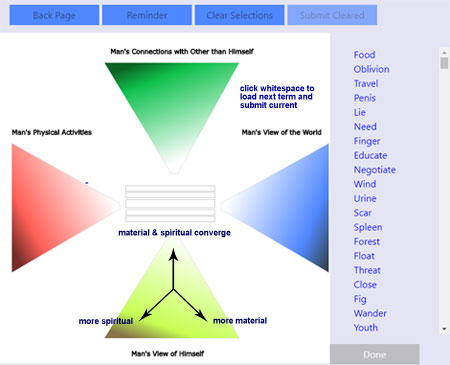
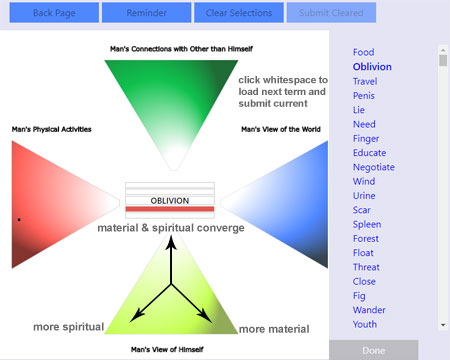
gradient change

diff --git a/public/js/s1-min.js b/public/js/s1-min.js
@@ -1,1 +1,1 @@
-Ybigh={counter:0,timeoutHandle:"",paths:[],current:"",saveSelection:[],counter_hash:[],click_counter:0,blue:null,green:null,red:null,yellow:null,data:null,confirmIndex:0,to_hex:function(o){return hex=o.toString(16),2==hex.length?hex:"0"+hex},clear:function(){Ybigh.$colors.fadeOut(Ybigh.$colors.remove),Ybigh.timeoutHandle=window.setTimeout(function(){"make-bold active"===$("#"+Ybigh.current).attr("class")&&$("#removeSelections").prop("disabled",!1),Ybigh.show(),$(".cl.world").css({"background-color":"white"}),$(".cl.others").css({"background-color":"white"}),$(".cl.activities").css({"background-color":"white"}),$(".cl.himself").css({"background-color":"white"}),Ybigh.blue=null,Ybigh.green=null,Ybigh.red=null,Ybigh.yellow=null},500)},submitCleared:function(){var o={name:Ybigh.current,wordID:123};$.ajax({type:"POST",url:"/symbol",data:JSON.stringify(o),error:function(o,e,t){},success:function(o){console.log(o),$("#"+Ybigh.current).removeClass("make-bold"),$("#removeSelections").prop("disabled",!0),Ybigh.counter>3&&$("#done").prop("disabled",!1).removeClass("dis")}})},startCounter:function(){Ybigh.timeoutHandle=window.setTimeout(function(){Ybigh.show()},500)},show:function(){var o=$("#phone").html();$(".word");let e;Ybigh.$colors=$('<canvas title="Once selections are made, click whitespace to submit current and load the next word" id="can" height="552" width="552"></canvas>'),$("#container").append(Ybigh.$colors.fadeIn()),Ybigh.colorctx=Ybigh.$colors[0].getContext("2d");var t=getAbsoluteBoundingRect(Ybigh.$colors[0]),c=t.left,l=t.top;Ybigh.render(!0),Ybigh.$colors.on("touchstart mouseup",function(t){if(t.preventDefault(),!Ybigh.current)return void alert("Click a term on the right then make selection(s)");let i="true"===o?t.changedTouches[0]:t,r=i.clientX,h=i.clientY,a=parseInt(r-c),n=parseInt(h-l);var g=0;for(g=0;g<Ybigh.paths.length&&!(e=Ybigh.colorctx.isPointInPath(Ybigh.paths[g],a,n));g++);if(e){let o=Ybigh.get_color(i);if("world"==Ybigh.paths[g].objID){let e=Ybigh.colorctx.createLinearGradient(585,310,90,95);e.addColorStop(0,"#36454F"),e.addColorStop(.1,"#4f87ff"),e.addColorStop(.37,"white"),Ybigh.colorctx.beginPath(),Ybigh.colorctx.moveTo(550,185),Ybigh.colorctx.lineTo(370,285),Ybigh.colorctx.lineTo(370,295),Ybigh.colorctx.lineTo(550,400),Ybigh.colorctx.closePath(),Ybigh.colorctx.fillStyle=e,Ybigh.colorctx.strokeStyle="#D0D0D0",Ybigh.colorctx.stroke(),Ybigh.colorctx.fill(),Ybigh.click_counter+=1,o.name=Ybigh.current,o.category=8,Ybigh.blue=o,Ybigh.colorctx.setTransform(1,0,0,1,0,0),Ybigh.colorctx.fillStyle="#000000",Ybigh.colorctx.fillRect(o.x-2,o.y-2,4,4),Ybigh.counter_hash.push({count:Ybigh.click_counter,category:o.category})}else if("others"==Ybigh.paths[g].objID){let e=Ybigh.colorctx.createLinearGradient(-55,115,27,323);e.addColorStop(.2,"#0B6623"),e.addColorStop(.37,"#0fc14e"),e.addColorStop(1,"white"),Ybigh.colorctx.beginPath(),Ybigh.colorctx.moveTo(175,50),Ybigh.colorctx.lineTo(287,235),Ybigh.colorctx.lineTo(297,235),Ybigh.colorctx.lineTo(400,50),Ybigh.colorctx.closePath(),Ybigh.colorctx.fillStyle=e,Ybigh.colorctx.strokeStyle="#D0D0D0",Ybigh.colorctx.stroke(),Ybigh.colorctx.fill(),Ybigh.click_counter+=1,o.name=Ybigh.current,o.category=2,Ybigh.green=o,Ybigh.colorctx.beginPath(),Ybigh.colorctx.setTransform(1,0,0,1,0,0),Ybigh.colorctx.fillStyle="#000000",Ybigh.colorctx.fillRect(o.x-2,o.y-2,4,4),Ybigh.counter_hash.push({count:Ybigh.click_counter,category:o.category})}else if("activities"==Ybigh.paths[g].objID){let e=Ybigh.colorctx.createLinearGradient(-15,295,380,85);e.addColorStop(0,"#662825"),e.addColorStop(.1,"#ff5f57"),e.addColorStop(.42,"white"),Ybigh.colorctx.beginPath(),Ybigh.colorctx.moveTo(20,185),Ybigh.colorctx.lineTo(200,285),Ybigh.colorctx.lineTo(200,295),Ybigh.colorctx.lineTo(20,400),Ybigh.colorctx.closePath(),Ybigh.colorctx.fillStyle=e,Ybigh.colorctx.strokeStyle="#D0D0D0",Ybigh.colorctx.stroke(),Ybigh.colorctx.fill(),Ybigh.click_counter+=1,o.name=Ybigh.current,o.category=4,Ybigh.red=o,Ybigh.colorctx.setTransform(1,0,0,1,0,0),Ybigh.colorctx.fillStyle="#000000",Ybigh.colorctx.fillRect(o.x-2,o.y-2,4,4),Ybigh.counter_hash.push({count:Ybigh.click_counter,category:o.category})}else{let e=Ybigh.colorctx.createLinearGradient(-35,485,50,250);e.addColorStop(.25,"#666600"),e.addColorStop(.4,"#c5ff52"),e.addColorStop(1,"white"),Ybigh.colorctx.beginPath(),Ybigh.colorctx.moveTo(175,510),Ybigh.colorctx.lineTo(285,335),Ybigh.colorctx.lineTo(295,335),Ybigh.colorctx.lineTo(400,510),Ybigh.colorctx.closePath(),Ybigh.colorctx.fillStyle=e,Ybigh.colorctx.strokeStyle="#D0D0D0",Ybigh.colorctx.stroke(),Ybigh.colorctx.fill(),Ybigh.click_counter+=1,o.name=Ybigh.current,o.category=1,Ybigh.yellow=o,Ybigh.colorctx.setTransform(1,0,0,1,0,0),Ybigh.colorctx.fillStyle="#000000",Ybigh.colorctx.fillRect(o.x-2,o.y-2,4,4),Ybigh.counter_hash.push({count:Ybigh.click_counter,category:o.category})}$(".cl."+Ybigh.paths[g].objID).css({"background-color":o.c})}else if(Ybigh.blue||Ybigh.red||Ybigh.green||Ybigh.yellow){$("#word_list li").removeClass("active");var s=parseInt($("#"+Ybigh.current).attr("data")),b=$("#word_list").find("[data='"+s+"']")[0],Y=s+1,u=$("#word_list").find("[data='"+Y+"']")[0];if(Ybigh.checkIfDone(u))$(u).addClass("active"),Ybigh.next(u,b),s>18&&$("#word_list").scrollTo("+=35",800);else{var d=Y+1,x=$("#word_list").find("[data='"+d+"']")[0];$(x).addClass("active"),Ybigh.next(x,b),d>18&&$("#word_list").scrollTo("+=35",800)}}}),Ybigh.$colors.on("mousemove",function(o){o.preventDefault();let e=parseInt(o.clientX-c),t=parseInt(o.clientY-l);for(var i=0;i<Ybigh.paths.length;i++){Ybigh.colorctx.isPointInPath(Ybigh.paths[i],e,t)&&Ybigh.$colors.css("cursor","crosshair")}})},checkIfDone:function(o){return"make-bold"!==$(o).attr("class")},bind_inputs:function(o){$("#overlay").css("display","block"),$.get("/Stage1/data",function(o){var e;Ybigh.data=o.data,Ybigh.show(),$("#clear").click(Ybigh.clear),$("#done").click(Ybigh.done),$("#removeSelections").click(Ybigh.submitCleared);var t=$("#word_list");$.each(Ybigh.data,function(o,c){var l=$('<li data="'+o+'" id="'+this+'">'+this+"</li>").on("touchstart mouseup",function(){if($("#removeSelections").prop("disabled",!0),$("#word_list li").removeClass("active"),"make-bold"===$(this).attr("class"))return Ybigh.blue||Ybigh.green||Ybigh.red||Ybigh.yellow?($(e).addClass("active"),void alert("Clear or submit active symbol before viewing another symbol")):($(this).addClass("active"),Ybigh.getPreviousState(this),void(e=this));Ybigh.current=$(this).html(),$(".word").val($(this).html().toUpperCase()),$(this).addClass("active"),(Ybigh.blue||Ybigh.green||Ybigh.red||Ybigh.yellow)&&Ybigh.current!==$(e).html()&&Ybigh.next(this,e),e=this});t.append(l)}),$("#overlay").css("display","none")})},next:function(o,e){$(".cl.world").css({"background-color":"white"}),$(".cl.others").css({"background-color":"white"}),$(".cl.activities").css({"background-color":"white"}),$(".cl.himself").css({"background-color":"white"}),Ybigh.close();let t=Ybigh.counter_hash.filter(function(o,e,t){return t.findIndex(function(e){return e.category==o.category})===e}).map(function(o){return{count:Ybigh.counter_hash.filter(function(e){return e.category==o.category}).reduce(function(o,e){return e.count<o?e.count:o}).count,category:o.category}});for(var c=0;c<t.length;c++)Ybigh.yellow&&Ybigh.yellow.category===t[c].category&&(Ybigh.yellow.clicked=t[c].count,Ybigh.saveSelection.push(Ybigh.yellow)),Ybigh.green&&Ybigh.green.category===t[c].category&&(Ybigh.green.clicked=t[c].count,Ybigh.saveSelection.push(Ybigh.green)),Ybigh.red&&Ybigh.red.category===t[c].category&&(Ybigh.red.clicked=t[c].count,Ybigh.saveSelection.push(Ybigh.red)),Ybigh.blue&&Ybigh.blue.category===t[c].category&&(Ybigh.blue.clicked=t[c].count,Ybigh.saveSelection.push(Ybigh.blue));Ybigh.saveSelection.sort(function(o,e){return o.count-e.count}),Ybigh.submit(Ybigh.saveSelection,o,e),Ybigh.saveSelection.length=0,Ybigh.blue=null,Ybigh.green=null,Ybigh.red=null,Ybigh.yellow=null},getPreviousState:function(o){for(var e=$(o).html(),t=[{c:"#81dea2",x:329,y:92,percentx:59.49367088607595,percenty:16.636528028933093,name:e,category:2,clicked:1},{c:"#cadbff",x:451,y:278,percentx:81.55515370705244,percenty:50.27124773960217,name:e,category:8,clicked:2},{c:"#ffe3e2",x:156,y:283,percentx:28.20976491862568,percenty:51.17540687160941,name:e,category:4,clicked:3},{c:"#e0ffa2",x:266,y:489,percentx:48.10126582278481,percenty:88.42676311030742,name:e,category:1,clicked:4}],c=0;c<t.length;c++)switch(Ybigh.colorctx.setTransform(1,0,0,1,0,0),Ybigh.colorctx.fillStyle="#000000",Ybigh.colorctx.fillRect(t[c].x-2,t[c].y-2,4,4),t[c].category){case 1:$(".cl.himself").css({"background-color":t[c].c}),Ybigh.yellow=t[c],Ybigh.counter_hash.push({count:t[c].click,category:t[c].category});break;case 2:$(".cl.others").css({"background-color":t[c].c}),Ybigh.green=t[c],Ybigh.counter_hash.push({count:t[c].click,category:t[c].category});break;case 4:$(".cl.activities").css({"background-color":t[c].c}),Ybigh.red=t[c],Ybigh.counter_hash.push({count:t[c].click,category:t[c].category});break;case 8:$(".cl.world").css({"background-color":t[c].c}),Ybigh.blue=t[c],Ybigh.counter_hash.push({count:t[c].click,category:t[c].category})}Ybigh.current=e,$(".word").val(e.toUpperCase())},done:function(o){(Ybigh.yellow||Ybigh.blue||Ybigh.red||Ybigh.green)&&Ybigh.next(),window.location.href="/Stage2"},submit:function(o,e,t){$("#overlay").css("display","block"),$.ajax({type:"POST",url:"/symbol",data:JSON.stringify(o),error:function(o,e,t){$("#overlay").css("display","none")},success:function(c){o.length=0,Ybigh.counter+=1,e&&t?(Ybigh.current=$(e).html(),$(".word").val($(e).html().toUpperCase()),$(t).addClass("make-bold")):$(t).addClass("make-bold"),Ybigh.counter>3&&$("#done").prop("disabled",!1).removeClass("dis"),$("#overlay").css("display","none")}})},close:function(){Ybigh.$colors.fadeOut(Ybigh.$colors.remove),Ybigh.startCounter()},get_color:function(o){var e=o.pageX-Ybigh.$colors.offset().left,t=o.pageY-Ybigh.$colors.offset().top,c=Ybigh.colorctx.getImageData(e,t,1,1).data,l=e/$("#can").width()*100,i=t/$("#can").height()*100;return{c:"#"+Ybigh.to_hex(c[0])+Ybigh.to_hex(c[1])+Ybigh.to_hex(c[2]),x:e,y:t,percentx:l,percenty:i}},render:function(o){var e,t=[{nameID:"others",col1:"white",col2:"#0fc14e",col0:"#0B6623",x:175,y:50,xlt:287,ylt:235,xlt1:297,ylt1:235,xlt2:400,ylt2:50,sy:115,fy:323,sx:-55,fx:27,stop1:.2,stop2:.37,stop3:1,labelX:185,labelY:35,label:"Man's Connections with Other than Himself"},{nameID:"activities",col1:"white",col2:"#ff5f57",col0:"#772d29",x:20,y:185,xlt:200,ylt:285,xlt1:200,ylt1:295,xlt2:20,ylt2:400,sy:295,fy:85,sx:-15,fx:380,stop1:0,stop2:.1,stop3:.42,labelX:20,labelY:170,label:"Man's Physical Activities"},{nameID:"world",col1:"white",col2:"#4f87ff",col0:"#36454F",x:550,y:185,xlt:370,ylt:285,xlt1:370,ylt1:295,xlt2:550,ylt2:400,sy:310,fy:95,sx:585,fx:90,stop1:0,stop2:.1,stop3:.37,labelX:405,labelY:170,label:"Man's View of the World"},{nameID:"himself",col1:"white",col2:"#c5ff52",col0:"#666600",x:175,y:510,xlt:285,ylt:335,xlt1:295,ylt1:335,xlt2:400,ylt2:510,sy:485,fy:250,sx:-35,fx:50,stop1:.25,stop2:.4,stop3:1,labelX:220,labelY:540,label:"Man's View of Himself"}];Path2D.prototype.getID=function(o){this.objID=o};for(var c=0;c<t.length;c++){(e=("others"==t[c].nameID||t[c].nameID,Ybigh.colorctx.createLinearGradient(t[c].sx,t[c].sy,t[c].fx,t[c].fy))).addColorStop(t[c].stop1,t[c].col0),e.addColorStop(t[c].stop2,t[c].col2),e.addColorStop(t[c].stop3,t[c].col1);var l=new Path2D;l.moveTo(t[c].x,t[c].y),l.lineTo(t[c].xlt,t[c].ylt),l.lineTo(t[c].xlt1,t[c].ylt1),l.lineTo(t[c].xlt2,t[c].ylt2),l.closePath(),l.getID(t[c].nameID),Ybigh.colorctx.fillStyle=e,Ybigh.colorctx.strokeStyle="#D0D0D0",Ybigh.colorctx.stroke(l),Ybigh.colorctx.fill(l),o&&(Ybigh.paths.push(l),Ybigh.colorctx.strokeStyle="black",Ybigh.colorctx.font="11px verdana",Ybigh.colorctx.strokeText(t[c].label,t[c].labelX,t[c].labelY))}}},Ybigh.bind_inputs();
+Ybigh={counter:0,timeoutHandle:"",paths:[],current:"",saveSelection:[],counter_hash:[],click_counter:0,blue:null,green:null,red:null,yellow:null,data:null,confirmIndex:0,to_hex:function(o){return hex=o.toString(16),2==hex.length?hex:"0"+hex},clear:function(){Ybigh.$colors.fadeOut(Ybigh.$colors.remove),Ybigh.timeoutHandle=window.setTimeout(function(){"make-bold active"===$("#"+Ybigh.current).attr("class")&&$("#removeSelections").prop("disabled",!1),Ybigh.show(),$(".cl.world").css({"background-color":"white"}),$(".cl.others").css({"background-color":"white"}),$(".cl.activities").css({"background-color":"white"}),$(".cl.himself").css({"background-color":"white"}),Ybigh.blue=null,Ybigh.green=null,Ybigh.red=null,Ybigh.yellow=null},500)},submitCleared:function(){var o={name:Ybigh.current,wordID:123};$.ajax({type:"POST",url:"/symbol",data:JSON.stringify(o),error:function(o,e,t){},success:function(o){console.log(o),$("#"+Ybigh.current).removeClass("make-bold"),$("#removeSelections").prop("disabled",!0),Ybigh.counter>3&&$("#done").prop("disabled",!1).removeClass("dis")}})},startCounter:function(){Ybigh.timeoutHandle=window.setTimeout(function(){Ybigh.show()},500)},show:function(){var o=$("#phone").html();$(".word");let e;Ybigh.$colors=$('<canvas title="Once selections are made, click whitespace to submit current and load the next word" id="can" height="552" width="552"></canvas>'),$("#container").append(Ybigh.$colors.fadeIn()),Ybigh.colorctx=Ybigh.$colors[0].getContext("2d");var t=getAbsoluteBoundingRect(Ybigh.$colors[0]),c=t.left,l=t.top;Ybigh.render(!0),Ybigh.$colors.on("touchstart mouseup",function(t){if(t.preventDefault(),!Ybigh.current)return void alert("Click a term on the right then make selection(s)");let i="true"===o?t.changedTouches[0]:t,r=i.clientX,h=i.clientY,a=parseInt(r-c),n=parseInt(h-l);var g=0;for(g=0;g<Ybigh.paths.length&&!(e=Ybigh.colorctx.isPointInPath(Ybigh.paths[g],a,n));g++);if(e){let o=Ybigh.get_color(i);if("world"==Ybigh.paths[g].objID){let e=Ybigh.colorctx.createRadialGradient(585,265,150,90,190,20);e.addColorStop(.15,"#36454F"),e.addColorStop(.29,"#4f87ff"),e.addColorStop(.51,"white"),Ybigh.colorctx.beginPath(),Ybigh.colorctx.moveTo(550,185),Ybigh.colorctx.lineTo(370,285),Ybigh.colorctx.lineTo(370,295),Ybigh.colorctx.lineTo(550,400),Ybigh.colorctx.closePath(),Ybigh.colorctx.fillStyle=e,Ybigh.colorctx.strokeStyle="#D0D0D0",Ybigh.colorctx.stroke(),Ybigh.colorctx.fill(),Ybigh.click_counter+=1,o.name=Ybigh.current,o.category=8,Ybigh.blue=o,Ybigh.colorctx.setTransform(1,0,0,1,0,0),Ybigh.colorctx.fillStyle="#000000",Ybigh.colorctx.fillRect(o.x-2,o.y-2,4,4),Ybigh.counter_hash.push({count:Ybigh.click_counter,category:o.category})}else if("others"==Ybigh.paths[g].objID){let e=Ybigh.colorctx.createRadialGradient(220,120,150,300,220,20);e.addColorStop(0,"#1f6b36"),e.addColorStop(.49,"#0fc14e"),e.addColorStop(1,"white"),Ybigh.colorctx.beginPath(),Ybigh.colorctx.moveTo(175,50),Ybigh.colorctx.lineTo(287,235),Ybigh.colorctx.lineTo(297,235),Ybigh.colorctx.lineTo(400,50),Ybigh.colorctx.closePath(),Ybigh.colorctx.fillStyle=e,Ybigh.colorctx.strokeStyle="#D0D0D0",Ybigh.colorctx.stroke(),Ybigh.colorctx.fill(),Ybigh.click_counter+=1,o.name=Ybigh.current,o.category=2,Ybigh.green=o,Ybigh.colorctx.beginPath(),Ybigh.colorctx.setTransform(1,0,0,1,0,0),Ybigh.colorctx.fillStyle="#000000",Ybigh.colorctx.fillRect(o.x-2,o.y-2,4,4),Ybigh.counter_hash.push({count:Ybigh.click_counter,category:o.category})}else if("activities"==Ybigh.paths[g].objID){let e=Ybigh.colorctx.createRadialGradient(100,230,150,265,300,20);e.addColorStop(0,"#84342f"),e.addColorStop(.25,"#ff5f57"),e.addColorStop(.8,"white"),Ybigh.colorctx.beginPath(),Ybigh.colorctx.moveTo(20,185),Ybigh.colorctx.lineTo(200,285),Ybigh.colorctx.lineTo(200,295),Ybigh.colorctx.lineTo(20,400),Ybigh.colorctx.closePath(),Ybigh.colorctx.fillStyle=e,Ybigh.colorctx.strokeStyle="#D0D0D0",Ybigh.colorctx.stroke(),Ybigh.colorctx.fill(),Ybigh.click_counter+=1,o.name=Ybigh.current,o.category=4,Ybigh.red=o,Ybigh.colorctx.setTransform(1,0,0,1,0,0),Ybigh.colorctx.fillStyle="#000000",Ybigh.colorctx.fillRect(o.x-2,o.y-2,4,4),Ybigh.counter_hash.push({count:Ybigh.click_counter,category:o.category})}else{let e=Ybigh.colorctx.createRadialGradient(220,450,150,300,300,20);e.addColorStop(0,"#92ab59"),e.addColorStop(.26,"#c5ff52"),e.addColorStop(.9,"white"),Ybigh.colorctx.beginPath(),Ybigh.colorctx.moveTo(175,510),Ybigh.colorctx.lineTo(285,335),Ybigh.colorctx.lineTo(295,335),Ybigh.colorctx.lineTo(400,510),Ybigh.colorctx.closePath(),Ybigh.colorctx.fillStyle=e,Ybigh.colorctx.strokeStyle="#D0D0D0",Ybigh.colorctx.stroke(),Ybigh.colorctx.fill(),Ybigh.click_counter+=1,o.name=Ybigh.current,o.category=1,Ybigh.yellow=o,Ybigh.colorctx.setTransform(1,0,0,1,0,0),Ybigh.colorctx.fillStyle="#000000",Ybigh.colorctx.fillRect(o.x-2,o.y-2,4,4),Ybigh.counter_hash.push({count:Ybigh.click_counter,category:o.category})}$(".cl."+Ybigh.paths[g].objID).css({"background-color":o.c})}else if(Ybigh.blue||Ybigh.red||Ybigh.green||Ybigh.yellow){$("#word_list li").removeClass("active");var s=parseInt($("#"+Ybigh.current).attr("data")),b=$("#word_list").find("[data='"+s+"']")[0],Y=s+1,u=$("#word_list").find("[data='"+Y+"']")[0];if(Ybigh.checkIfDone(u))$(u).addClass("active"),Ybigh.next(u,b),s>18&&$("#word_list").scrollTo("+=35",800);else{var d=Y+1,f=$("#word_list").find("[data='"+d+"']")[0];$(f).addClass("active"),Ybigh.next(f,b),d>18&&$("#word_list").scrollTo("+=35",800)}}}),Ybigh.$colors.on("mousemove",function(o){o.preventDefault();let e=parseInt(o.clientX-c),t=parseInt(o.clientY-l);for(var i=0;i<Ybigh.paths.length;i++){Ybigh.colorctx.isPointInPath(Ybigh.paths[i],e,t)&&Ybigh.$colors.css("cursor","crosshair")}})},checkIfDone:function(o){return"make-bold"!==$(o).attr("class")},bind_inputs:function(o){$("#overlay").css("display","block"),$.get("/Stage1/data",function(o){var e;Ybigh.data=o.data,Ybigh.show(),$("#clear").click(Ybigh.clear),$("#done").click(Ybigh.done),$("#removeSelections").click(Ybigh.submitCleared);var t=$("#word_list");$.each(Ybigh.data,function(o,c){var l=$('<li data="'+o+'" id="'+this+'">'+this+"</li>").on("touchstart mouseup",function(){if($("#removeSelections").prop("disabled",!0),$("#word_list li").removeClass("active"),"make-bold"===$(this).attr("class"))return Ybigh.blue||Ybigh.green||Ybigh.red||Ybigh.yellow?($(e).addClass("active"),void alert("Clear or submit active symbol before viewing another symbol")):($(this).addClass("active"),Ybigh.getPreviousState(this),void(e=this));Ybigh.current=$(this).html(),$(".word").val($(this).html().toUpperCase()),$(this).addClass("active"),(Ybigh.blue||Ybigh.green||Ybigh.red||Ybigh.yellow)&&Ybigh.current!==$(e).html()&&Ybigh.next(this,e),e=this});t.append(l)}),$("#overlay").css("display","none")})},next:function(o,e){$(".cl.world").css({"background-color":"white"}),$(".cl.others").css({"background-color":"white"}),$(".cl.activities").css({"background-color":"white"}),$(".cl.himself").css({"background-color":"white"}),Ybigh.close();let t=Ybigh.counter_hash.filter(function(o,e,t){return t.findIndex(function(e){return e.category==o.category})===e}).map(function(o){return{count:Ybigh.counter_hash.filter(function(e){return e.category==o.category}).reduce(function(o,e){return e.count<o?e.count:o}).count,category:o.category}});for(var c=0;c<t.length;c++)Ybigh.yellow&&Ybigh.yellow.category===t[c].category&&(Ybigh.yellow.clicked=t[c].count,Ybigh.saveSelection.push(Ybigh.yellow)),Ybigh.green&&Ybigh.green.category===t[c].category&&(Ybigh.green.clicked=t[c].count,Ybigh.saveSelection.push(Ybigh.green)),Ybigh.red&&Ybigh.red.category===t[c].category&&(Ybigh.red.clicked=t[c].count,Ybigh.saveSelection.push(Ybigh.red)),Ybigh.blue&&Ybigh.blue.category===t[c].category&&(Ybigh.blue.clicked=t[c].count,Ybigh.saveSelection.push(Ybigh.blue));Ybigh.saveSelection.sort(function(o,e){return o.count-e.count}),Ybigh.submit(Ybigh.saveSelection,o,e),Ybigh.saveSelection.length=0,Ybigh.blue=null,Ybigh.green=null,Ybigh.red=null,Ybigh.yellow=null},getPreviousState:function(o){for(var e=$(o).html(),t=[{c:"#81dea2",x:329,y:92,percentx:59.49367088607595,percenty:16.636528028933093,name:e,category:2,clicked:1},{c:"#cadbff",x:451,y:278,percentx:81.55515370705244,percenty:50.27124773960217,name:e,category:8,clicked:2},{c:"#ffe3e2",x:156,y:283,percentx:28.20976491862568,percenty:51.17540687160941,name:e,category:4,clicked:3},{c:"#e0ffa2",x:266,y:489,percentx:48.10126582278481,percenty:88.42676311030742,name:e,category:1,clicked:4}],c=0;c<t.length;c++)switch(Ybigh.colorctx.setTransform(1,0,0,1,0,0),Ybigh.colorctx.fillStyle="#000000",Ybigh.colorctx.fillRect(t[c].x-2,t[c].y-2,4,4),t[c].category){case 1:$(".cl.himself").css({"background-color":t[c].c}),Ybigh.yellow=t[c],Ybigh.counter_hash.push({count:t[c].click,category:t[c].category});break;case 2:$(".cl.others").css({"background-color":t[c].c}),Ybigh.green=t[c],Ybigh.counter_hash.push({count:t[c].click,category:t[c].category});break;case 4:$(".cl.activities").css({"background-color":t[c].c}),Ybigh.red=t[c],Ybigh.counter_hash.push({count:t[c].click,category:t[c].category});break;case 8:$(".cl.world").css({"background-color":t[c].c}),Ybigh.blue=t[c],Ybigh.counter_hash.push({count:t[c].click,category:t[c].category})}Ybigh.current=e,$(".word").val(e.toUpperCase())},done:function(o){(Ybigh.yellow||Ybigh.blue||Ybigh.red||Ybigh.green)&&Ybigh.next(),window.location.href="/Stage2"},submit:function(o,e,t){$("#overlay").css("display","block"),$.ajax({type:"POST",url:"/symbol",data:JSON.stringify(o),error:function(o,e,t){$("#overlay").css("display","none")},success:function(c){o.length=0,Ybigh.counter+=1,e&&t?(Ybigh.current=$(e).html(),$(".word").val($(e).html().toUpperCase()),$(t).addClass("make-bold")):$(t).addClass("make-bold"),Ybigh.counter>3&&$("#done").prop("disabled",!1).removeClass("dis"),$("#overlay").css("display","none")}})},close:function(){Ybigh.$colors.fadeOut(Ybigh.$colors.remove),Ybigh.startCounter()},get_color:function(o){var e=o.pageX-Ybigh.$colors.offset().left,t=o.pageY-Ybigh.$colors.offset().top,c=Ybigh.colorctx.getImageData(e,t,1,1).data,l=e/$("#can").width()*100,i=t/$("#can").height()*100;return{c:"#"+Ybigh.to_hex(c[0])+Ybigh.to_hex(c[1])+Ybigh.to_hex(c[2]),x:e,y:t,percentx:l,percenty:i}},render:function(o){var e,t=[{nameID:"others",col1:"white",col2:"#0fc14e",col0:"#1f6b36",x:175,y:50,xlt:287,ylt:235,xlt1:297,ylt1:235,xlt2:400,ylt2:50,sy:120,fy:220,sx:220,fx:300,stop1:0,stop2:.49,stop3:1,r1:150,r2:20,labelX:185,labelY:35,label:"Man's Connections with Other than Himself"},{nameID:"activities",col1:"white",col2:"#ff5f57",col0:"#84342f",x:20,y:185,xlt:200,ylt:285,xlt1:200,ylt1:295,xlt2:20,ylt2:400,sy:230,fy:300,sx:100,fx:265,stop1:0,stop2:.25,stop3:.8,r1:150,r2:20,labelX:20,labelY:170,label:"Man's Physical Activities"},{nameID:"world",col1:"white",col2:"#4f87ff",col0:"#36454F",x:550,y:185,xlt:370,ylt:285,xlt1:370,ylt1:295,xlt2:550,ylt2:400,sy:265,fy:190,sx:585,fx:90,stop1:.15,stop2:.29,stop3:.51,r1:150,r2:20,labelX:405,labelY:170,label:"Man's View of the World"},{nameID:"himself",col1:"white",col2:"#c5ff52",col0:"#92ab59",x:175,y:510,xlt:285,ylt:335,xlt1:295,ylt1:335,xlt2:400,ylt2:510,sy:450,fy:300,sx:220,fx:300,stop1:0,stop2:.26,stop3:.9,r1:150,r2:20,labelX:220,labelY:540,label:"Man's View of Himself"}];Path2D.prototype.getID=function(o){this.objID=o};for(var c=0;c<t.length;c++){(e=Ybigh.colorctx.createRadialGradient(t[c].sx,t[c].sy,t[c].r1,t[c].fx,t[c].fy,t[c].r2)).addColorStop(t[c].stop1,t[c].col0),e.addColorStop(t[c].stop2,t[c].col2),e.addColorStop(t[c].stop3,t[c].col1);var l=new Path2D;l.moveTo(t[c].x,t[c].y),l.lineTo(t[c].xlt,t[c].ylt),l.lineTo(t[c].xlt1,t[c].ylt1),l.lineTo(t[c].xlt2,t[c].ylt2),l.closePath(),l.getID(t[c].nameID),Ybigh.colorctx.fillStyle=e,Ybigh.colorctx.strokeStyle="#D0D0D0",Ybigh.colorctx.stroke(l),Ybigh.colorctx.fill(l),o&&(Ybigh.paths.push(l),Ybigh.colorctx.strokeStyle="black",Ybigh.colorctx.font="11px verdana",Ybigh.colorctx.strokeText(t[c].label,t[c].labelX,t[c].labelY))}}},Ybigh.bind_inputs();

diff --git a/index-min.js b/index-min.js
@@ -1,1 +1,1 @@
-const{connection:connection,mysql:mysql}=require("./modules/dbconnection-min.js"),express=require("express"),bodyParser=require("body-parser"),session=require("client-sessions"),device=require("express-device"),app=express();let results=[{name:"Introduction",link:""},{name:"Sign up",link:"Signup"},{name:"Dashboard",link:"dashboard"},{name:"How to use",link:"Howtouse"},{name:"Stage 1",link:"Stage1"},{name:"Stage 2",link:"Stage2"},{name:"Stage 3",link:"Stage3"}];connection.connect(),app.use(session({cookieName:"session",secret:"respqgepor30343DDmkivwkjndd-[]{}P022$",duration:432e5})),app.use("/",express.static(__dirname+"/public")),setInterval(function(){connection.query("SELECT 1")},5e3),app.set("port",process.env.PORT||4e3),app.use(bodyParser.urlencoded({extended:!1})),app.use(bodyParser.json()),app.use(device.capture({parseUserAgent:!0})),device.enableDeviceHelpers(app),device.enableViewRouting(app),app.set("view engine","ejs"),app.use("/",function(e,a,r){return e.session.user||"GET"!==e.method?r():void a.render("pages/index",{data:results})}),app.get("/",function(e,a,r){a.render("pages/introduction",{data:results})}),app.get("/:name",function(e,a,r){let n=e.session.user?e.session.user:"not",t="SELECT * FROM auth WHERE id_user="+mysql.escape(n);connection.query(t,function(r,n,t){if(r)throw r;"Signup"==e.params.name&&a.render("pages/index",{data:results}),n.length>0&&("Howtouse"==e.params.name?a.render("pages/how_to_use",{data:results}):"Stage1"==e.params.name?a.render("pages/stage_1",{data:results}):"Stage2"==e.params.name?a.render("pages/stage_2",{data:results}):e.params.name)})}),app.get("/S*/data",function(e,a,r){a.send({data:["Food","Oblivion","Travel","Penis","Lie","Need","Finger","Educate","Negotiate","Wind","Urine","Scar","Spleen","Forest","Float","Threat","Close","Fig","Wander","Youth","Deep","Pierce","Eyebrow","Attach","Freedom","Behind","Eye","Swim","Wake","Hen","Wait","Dismantle","Rooster","Render","Prey","Lion, awesome","Angel","Orange","Seashore","Claw","Stiff","Marriage","Impregnate","Tree","Nemesis","Dally","Granddaughter","Stupid","Vagina","Leader","Belch","Foolishness","Understanding","Earth","Disdain","Manliness","Forbidden","Seal","Hand","Progeny","Foundation","Man","Date","Destroy","Cough","Ally","Plant","Complete","Seat","Partner","Bed","Glue","Stranger","Sexuality","Tear","Sex","Desert","Crow","Health","Haunch","Prepare","Snow","Idiocy","Youthfulness","Knee","Mouth","Dove","Fear","Swarm","Fabricate","Balance","Occupy","Womb","Wife","Horse","Cut","Storm","Grape","Color","Awl","Star","Write","Eat","Ankle","Sun","Carry","Explain","Rich","Intimate","Eagle","Thresh","Vitality","Darkness","Stubborn","Disease","Zip up","Wine","Hair","Ride","Stand","Below","Face","Domestic","Tooth","Trespass","Mirror","Condemn","Swear","Feces","Struggle","Forever","Benefactor","Share","Heat","Fruit","Insect","Light","Salt","Son","Head","Flee","Witness","Adorn","Grow","Slaughter","Father","Study","Interpretation","Broil","Heart","Warm","Sale","Burn","Sleep","Humility","Child","Dye","Mother-in-law","Leg","Sing","Wagon","Lion, young","Field","Furrow","Sight","Desolate","See","Olive","Clothing","Teacher","Chest","Water","Private life","Roof","Woman","Acquire","Territory","Trek","Reflection","Legislation","Dice","Cliff","Pregnant","Clothes","Ancestors","Saddle","Harvest","Bake","Dress","Ephemeral","Heaven","Grind","Old","Join","Grapes","Sister-in-law","Kidney","Clan","Cheek","Separate","Beast","Husband","Knead","Bedeck","Manufacture","Lemon","Repair","Understand","Lung","Battle","Contract","Breast","Importance","Alter","Tribe","Sling","Mash","Soil","Beard","Gut","Hold","Sleet","Receive","Take","Breathe","Smile","Barren","Wisdom","Read","Plow","Cold","Sew","Fortune","Divide","Spy","Belly","Smell","Joint","Leaf","Testify","Wolf","Pistachio","Sister","Tongue","Aid","Sanity","Wealth","Peek","Bird","Wealthy","Rain","Borrower","Permanence","Shoulder","Owner","Haze","Incest","Foot","Lightning","Thirst","Cook","Desecrate","Brow","Insanity","Guilt","Delay","Sit","Own","Stream","Run","Singe","Bag","Thunder","Nose","Wonder","Burden","Beautify","Bread","Chop","Pinion","Human","War","Cohort","Prince","Winnow","Fog","Remove","Nation","Fish","Discard","Stone","Ancient","Enemy","Square","Vomit","Year","Raider","Almond","Hurry","Love","Digestion","Lender","Touch","Wing","Month","Vibrant","Bone","Laugh","Permanent","Uproot","Ear","Knot","Above","Immutable","Tell","Animal","Snake","Lion","Shade","Press","Night","Degrade","Father-in-law","Bear","Pummel","Intend","Vulnerable","Immaturity","Worm","Empty","Eyelash","Girlishness","Decrepitude","Ephemerality","Word","Load","Pay","Uncle","Flesh","Adjudicate","Elucidate","Teeth","Room","Wave","Theft","Stake","Nail","Cross","Justice","Weasel","Branch","Slave","Garden","Recline","Hear","Lowliness","Odor","Fight","River","Dismember","Day","Tiger","Flower","Friend","Lay","Indict","Crag","Menstruation","Donkey","Liberty","Trust","Commitment","Judge","Inviolable","Lift","Surround","Manhood","Kill","Harbor","Age","Death","Fire","Grandchild","Surfeit","Wild","Satiation","Palace","Fly","Stalk","Mother","Vine","Scepter","Hunger","Crown","Bruise","Poverty","Lens","Suborn","Blood","Bargain","Vision","Cart","Thigh","Life","Feel","School","Famine","Young","Language","Family","Aunt","Free","Gather","Scrape","Score","Kindle","Dog","Femininity","Congress","Ship","Joy","Aged","Knife","Scale","Rest","Consistent","Breath","Transport","Toe","Scab","Planet","Grandson","Liver","Stare","Buy","Seed","Determined work","Pillar","Lips","Myself","Position","Adversary","Brother","Open","Neck","Barter","Reap","Muscle","Music","Work","Daughter","Spoils","Train","House","Semen","Speak","Gash","Dew","Argue","Suck","Purchase","Walk","Extent","Shepherd","Give","Displace","Hawk","G","World","Oppressor","Week","Army","Perimeter","Circle","King","Tattoo","Surface"]})}),app.post("/Signup",function(e,a,r){if(results.push({name:"",link:""}),e.body.email){let r="SELECT * FROM auth WHERE email_user = ?";connection.query(r,mysql.escape(e.body.email),function(r,n,t){if(r)results[results.length-1].msg=r,a.render("pages/index",{data:results});else if(n.length>0)e.session.user?(results[results.length-1].msg="You are already logged in",a.render("pages/index",{data:results})):(e.session.user=mysql.escape(n[0].id_user),results[results.length-1].msg="New session created",a.render("pages/index",{data:results}));else{let r={email_user:mysql.escape(e.body.email)},n="INSERT INTO auth SET ?";connection.query(n,r,function(r,n){if(r)throw r;e.session.user=n.insertId,results[results.length-1].msg='Email sent. Please proceed to "How to use"',a.render("pages/index",{data:results})})}})}else results[results.length-1].msg="Please add your email",a.render("pages/index",{data:results})}),app.post("/symbol",function(e,a,r){a.set({"Content-Type":"text/plain"}),a.send("submitted")}),app.listen(app.get("port"),function(){console.log("Node app is running on port",app.get("port"))});
+const{connection:connection,mysql:mysql}=require("./modules/dbconnection-min.js"),express=require("express"),bodyParser=require("body-parser"),session=require("client-sessions"),device=require("express-device"),app=express();let results=[{name:"Introduction",link:""},{name:"Sign up",link:"Signup"},{name:"Dashboard",link:"dashboard"},{name:"How to use",link:"Howtouse"},{name:"Stage 1",link:"Stage1"},{name:"Stage 2",link:"Stage2"},{name:"Stage 3",link:"Stage3"}];connection.connect(),app.use(session({cookieName:"session",secret:"respqgepor30343DDmkivwkjndd-[]{}P022$",duration:432e5})),app.use("/",express.static(__dirname+"/public")),setInterval(function(){connection.query("SELECT 1")},5e3),app.set("port",process.env.PORT||5e3),app.use(bodyParser.urlencoded({extended:!1})),app.use(bodyParser.json()),app.use(device.capture({parseUserAgent:!0})),device.enableDeviceHelpers(app),device.enableViewRouting(app),app.set("view engine","ejs"),app.use("/",function(e,a,r){return e.session.user||"GET"!==e.method?r():void a.render("pages/index",{data:results})}),app.get("/",function(e,a,r){a.render("pages/introduction",{data:results})}),app.get("/:name",function(e,a,r){let n=e.session.user?e.session.user:"not",t="SELECT * FROM auth WHERE id_user="+mysql.escape(n);connection.query(t,function(r,n,t){if(r)throw r;"Signup"==e.params.name&&a.render("pages/index",{data:results}),n.length>0&&("Howtouse"==e.params.name?a.render("pages/how_to_use",{data:results}):"Stage1"==e.params.name?a.render("pages/stage_1",{data:results}):"Stage2"==e.params.name?a.render("pages/stage_2",{data:results}):e.params.name)})}),app.get("/S*/data",function(e,a,r){a.send({data:["Food","Oblivion","Travel","Penis","Lie","Need","Finger","Educate","Negotiate","Wind","Urine","Scar","Spleen","Forest","Float","Threat","Close","Fig","Wander","Youth","Deep","Pierce","Eyebrow","Attach","Freedom","Behind","Eye","Swim","Wake","Hen","Wait","Dismantle","Rooster","Render","Prey","Lion, awesome","Angel","Orange","Seashore","Claw","Stiff","Marriage","Impregnate","Tree","Nemesis","Dally","Granddaughter","Stupid","Vagina","Leader","Belch","Foolishness","Understanding","Earth","Disdain","Manliness","Forbidden","Seal","Hand","Progeny","Foundation","Man","Date","Destroy","Cough","Ally","Plant","Complete","Seat","Partner","Bed","Glue","Stranger","Sexuality","Tear","Sex","Desert","Crow","Health","Haunch","Prepare","Snow","Idiocy","Youthfulness","Knee","Mouth","Dove","Fear","Swarm","Fabricate","Balance","Occupy","Womb","Wife","Horse","Cut","Storm","Grape","Color","Awl","Star","Write","Eat","Ankle","Sun","Carry","Explain","Rich","Intimate","Eagle","Thresh","Vitality","Darkness","Stubborn","Disease","Zip up","Wine","Hair","Ride","Stand","Below","Face","Domestic","Tooth","Trespass","Mirror","Condemn","Swear","Feces","Struggle","Forever","Benefactor","Share","Heat","Fruit","Insect","Light","Salt","Son","Head","Flee","Witness","Adorn","Grow","Slaughter","Father","Study","Interpretation","Broil","Heart","Warm","Sale","Burn","Sleep","Humility","Child","Dye","Mother-in-law","Leg","Sing","Wagon","Lion, young","Field","Furrow","Sight","Desolate","See","Olive","Clothing","Teacher","Chest","Water","Private life","Roof","Woman","Acquire","Territory","Trek","Reflection","Legislation","Dice","Cliff","Pregnant","Clothes","Ancestors","Saddle","Harvest","Bake","Dress","Ephemeral","Heaven","Grind","Old","Join","Grapes","Sister-in-law","Kidney","Clan","Cheek","Separate","Beast","Husband","Knead","Bedeck","Manufacture","Lemon","Repair","Understand","Lung","Battle","Contract","Breast","Importance","Alter","Tribe","Sling","Mash","Soil","Beard","Gut","Hold","Sleet","Receive","Take","Breathe","Smile","Barren","Wisdom","Read","Plow","Cold","Sew","Fortune","Divide","Spy","Belly","Smell","Joint","Leaf","Testify","Wolf","Pistachio","Sister","Tongue","Aid","Sanity","Wealth","Peek","Bird","Wealthy","Rain","Borrower","Permanence","Shoulder","Owner","Haze","Incest","Foot","Lightning","Thirst","Cook","Desecrate","Brow","Insanity","Guilt","Delay","Sit","Own","Stream","Run","Singe","Bag","Thunder","Nose","Wonder","Burden","Beautify","Bread","Chop","Pinion","Human","War","Cohort","Prince","Winnow","Fog","Remove","Nation","Fish","Discard","Stone","Ancient","Enemy","Square","Vomit","Year","Raider","Almond","Hurry","Love","Digestion","Lender","Touch","Wing","Month","Vibrant","Bone","Laugh","Permanent","Uproot","Ear","Knot","Above","Immutable","Tell","Animal","Snake","Lion","Shade","Press","Night","Degrade","Father-in-law","Bear","Pummel","Intend","Vulnerable","Immaturity","Worm","Empty","Eyelash","Girlishness","Decrepitude","Ephemerality","Word","Load","Pay","Uncle","Flesh","Adjudicate","Elucidate","Teeth","Room","Wave","Theft","Stake","Nail","Cross","Justice","Weasel","Branch","Slave","Garden","Recline","Hear","Lowliness","Odor","Fight","River","Dismember","Day","Tiger","Flower","Friend","Lay","Indict","Crag","Menstruation","Donkey","Liberty","Trust","Commitment","Judge","Inviolable","Lift","Surround","Manhood","Kill","Harbor","Age","Death","Fire","Grandchild","Surfeit","Wild","Satiation","Palace","Fly","Stalk","Mother","Vine","Scepter","Hunger","Crown","Bruise","Poverty","Lens","Suborn","Blood","Bargain","Vision","Cart","Thigh","Life","Feel","School","Famine","Young","Language","Family","Aunt","Free","Gather","Scrape","Score","Kindle","Dog","Femininity","Congress","Ship","Joy","Aged","Knife","Scale","Rest","Consistent","Breath","Transport","Toe","Scab","Planet","Grandson","Liver","Stare","Buy","Seed","Determined work","Pillar","Lips","Myself","Position","Adversary","Brother","Open","Neck","Barter","Reap","Muscle","Music","Work","Daughter","Spoils","Train","House","Semen","Speak","Gash","Dew","Argue","Suck","Purchase","Walk","Extent","Shepherd","Give","Displace","Hawk","G","World","Oppressor","Week","Army","Perimeter","Circle","King","Tattoo","Surface"]})}),app.post("/Signup",function(e,a,r){if(results.push({name:"",link:""}),e.body.email){let r="SELECT * FROM auth WHERE email_user = ?";connection.query(r,mysql.escape(e.body.email),function(r,n,t){if(r)results[results.length-1].msg=r,a.render("pages/index",{data:results});else if(n.length>0)e.session.user?(results[results.length-1].msg="You are already logged in",a.render("pages/index",{data:results})):(e.session.user=mysql.escape(n[0].id_user),results[results.length-1].msg="New session created",a.render("pages/index",{data:results}));else{let r={email_user:mysql.escape(e.body.email)},n="INSERT INTO auth SET ?";connection.query(n,r,function(r,n){if(r)throw r;e.session.user=n.insertId,results[results.length-1].msg='Email sent. Please proceed to "How to use"',a.render("pages/index",{data:results})})}})}else results[results.length-1].msg="Please add your email",a.render("pages/index",{data:results})}),app.post("/symbol",function(e,a,r){a.set({"Content-Type":"text/plain"}),a.send("submitted")}),app.listen(app.get("port"),function(){console.log("Node app is running on port",app.get("port"))});

diff --git a/public/js/s1.js b/public/js/s1.js
@@ -124,11 +124,11 @@ Ybigh = {
 
                         if(Ybigh.paths[i].objID == "world"){//done done done
 
-                            let gradient = Ybigh.colorctx.createLinearGradient(585, 310, 90, 95);
+                            let gradient = Ybigh.colorctx.createRadialGradient(585, 265, 150, 90, 190, 20);
 
-                            gradient.addColorStop(0,    "#36454F");//0
-                            gradient.addColorStop(0.1,  "#4f87ff");//2
-                            gradient.addColorStop(0.37,    "white");//1
+                            gradient.addColorStop(0.15,    "#36454F");//0
+                            gradient.addColorStop(0.29,    "#4f87ff");//2
+                            gradient.addColorStop(0.51,    "white");//1
 
                             Ybigh.colorctx.beginPath()
                             Ybigh.colorctx.moveTo(550, 185);
@@ -150,15 +150,14 @@ Ybigh = {
                             Ybigh.colorctx.fillStyle = "#000000";  
                             Ybigh.colorctx.fillRect(new_color.x-2, new_color.y-2, 4, 4);
                             Ybigh.counter_hash.push({count:Ybigh.click_counter, category: new_color.category});
-                            //Ybigh.colorctx.fillText(mouseX+","+mouseY, mouseX-2, mouseY-2);
-                            //console.log(new_color);
-                        }else if(Ybigh.paths[i].objID == "others"){//done done done
+                            
+                        }else if(Ybigh.paths[i].objID == "others"){//done done done yay
 
-                            let gradient = Ybigh.colorctx.createRadialGradient(210, 120, 150, 300, 220, 20);
+                            let gradient = Ybigh.colorctx.createRadialGradient(220, 120, 150, 300, 220, 20);
 
-                            gradient.addColorStop(0,     "#258040"); 
-                            gradient.addColorStop(0.59,    "#0fc14e");
-                            gradient.addColorStop(1,       "white");                        
+                            gradient.addColorStop(0,     "#1f6b36"); 
+                            gradient.addColorStop(0.49,  "#0fc14e");
+                            gradient.addColorStop(1,     "white");                        
                             Ybigh.colorctx.beginPath();
                             Ybigh.colorctx.moveTo(175, 50);
                             Ybigh.colorctx.lineTo(287, 235);
@@ -180,15 +179,14 @@ Ybigh = {
                             Ybigh.colorctx.fillStyle = "#000000";  
                             Ybigh.colorctx.fillRect(new_color.x-2, new_color.y-2, 4, 4);
                             Ybigh.counter_hash.push({count:Ybigh.click_counter, category: new_color.category});
-                            //Ybigh.colorctx.fillText(mouseX+","+mouseY, mouseX-2, mouseY-2);
-                            //console.log(new_color);
-                        }else if(Ybigh.paths[i].objID == "activities"){//done done done
+                          
+                        }else if(Ybigh.paths[i].objID == "activities"){//done done done yay
 
-                            let gradient = Ybigh.colorctx.createRadialGradient(110, 215, 150, 340, 250, 20);
+                            let gradient = Ybigh.colorctx.createRadialGradient(100, 230, 150, 265, 300, 20);
 
-                            gradient.addColorStop(0,    "#993832");
-                            gradient.addColorStop(0.23,  "#ff5f57");
-                            gradient.addColorStop(0.56,  "white");
+                            gradient.addColorStop(0,    "#84342f");
+                            gradient.addColorStop(0.25, "#ff5f57");
+                            gradient.addColorStop(0.8,  "white");
 
                             Ybigh.colorctx.beginPath();
                             Ybigh.colorctx.moveTo(20, 185);
@@ -214,11 +212,11 @@ Ybigh = {
                             //console.log(new_color);
                         }else{ //done done
 
-                            let gradient = Ybigh.colorctx.createLinearGradient(-35, 485, 50, 250); //x,y,x,y
+                            let gradient = Ybigh.colorctx.createRadialGradient(220, 450, 150, 300, 300, 20); //x,y,x,y
 
-                            gradient.addColorStop(0.25,    "#666600");
-                            gradient.addColorStop(0.4,    "#c5ff52");
-                            gradient.addColorStop(1,    "white");
+                            gradient.addColorStop(0,    "#92ab59");
+                            gradient.addColorStop(0.26, "#c5ff52");
+                            gradient.addColorStop(0.9,  "white");
 
                             Ybigh.colorctx.beginPath();
                             Ybigh.colorctx.moveTo(175, 510);
@@ -322,7 +320,7 @@ Ybigh = {
     bind_inputs: function (userID) {
         //$('input[type="color-picker"]').not('.color-picker-binded').each(function () {
             $("#overlay").css("display","block");
-            //mock ajax call
+         
             $.get("/Stage1/data", function(response){
 
                 Ybigh.data = response.data;
@@ -643,7 +641,7 @@ Ybigh = {
                     nameID: "himself",
                     col1: "white", //yellow done
                     col2: "#c5ff52",
-                    col0: "#666600", //938200  86942A
+                    col0: "#92ab59", //938200  86942A
                     x: 175,//190
                     y: 510,
                     xlt:285,//225
@@ -652,13 +650,13 @@ Ybigh = {
                     ylt1:335,
                     xlt2:400,//390
                     ylt2:510,
-                    sy: 430,
+                    sy: 450,
                     fy: 300,
-                    sx: 250,
-                    fx: 50,
+                    sx: 220,
+                    fx: 300,
                     stop1:0,
-                    stop2:0.5,
-                    stop3:1,
+                    stop2:0.26,
+                    stop3:0.9,
                     r1:150,
                     r2:20,
                     labelX: 220,
